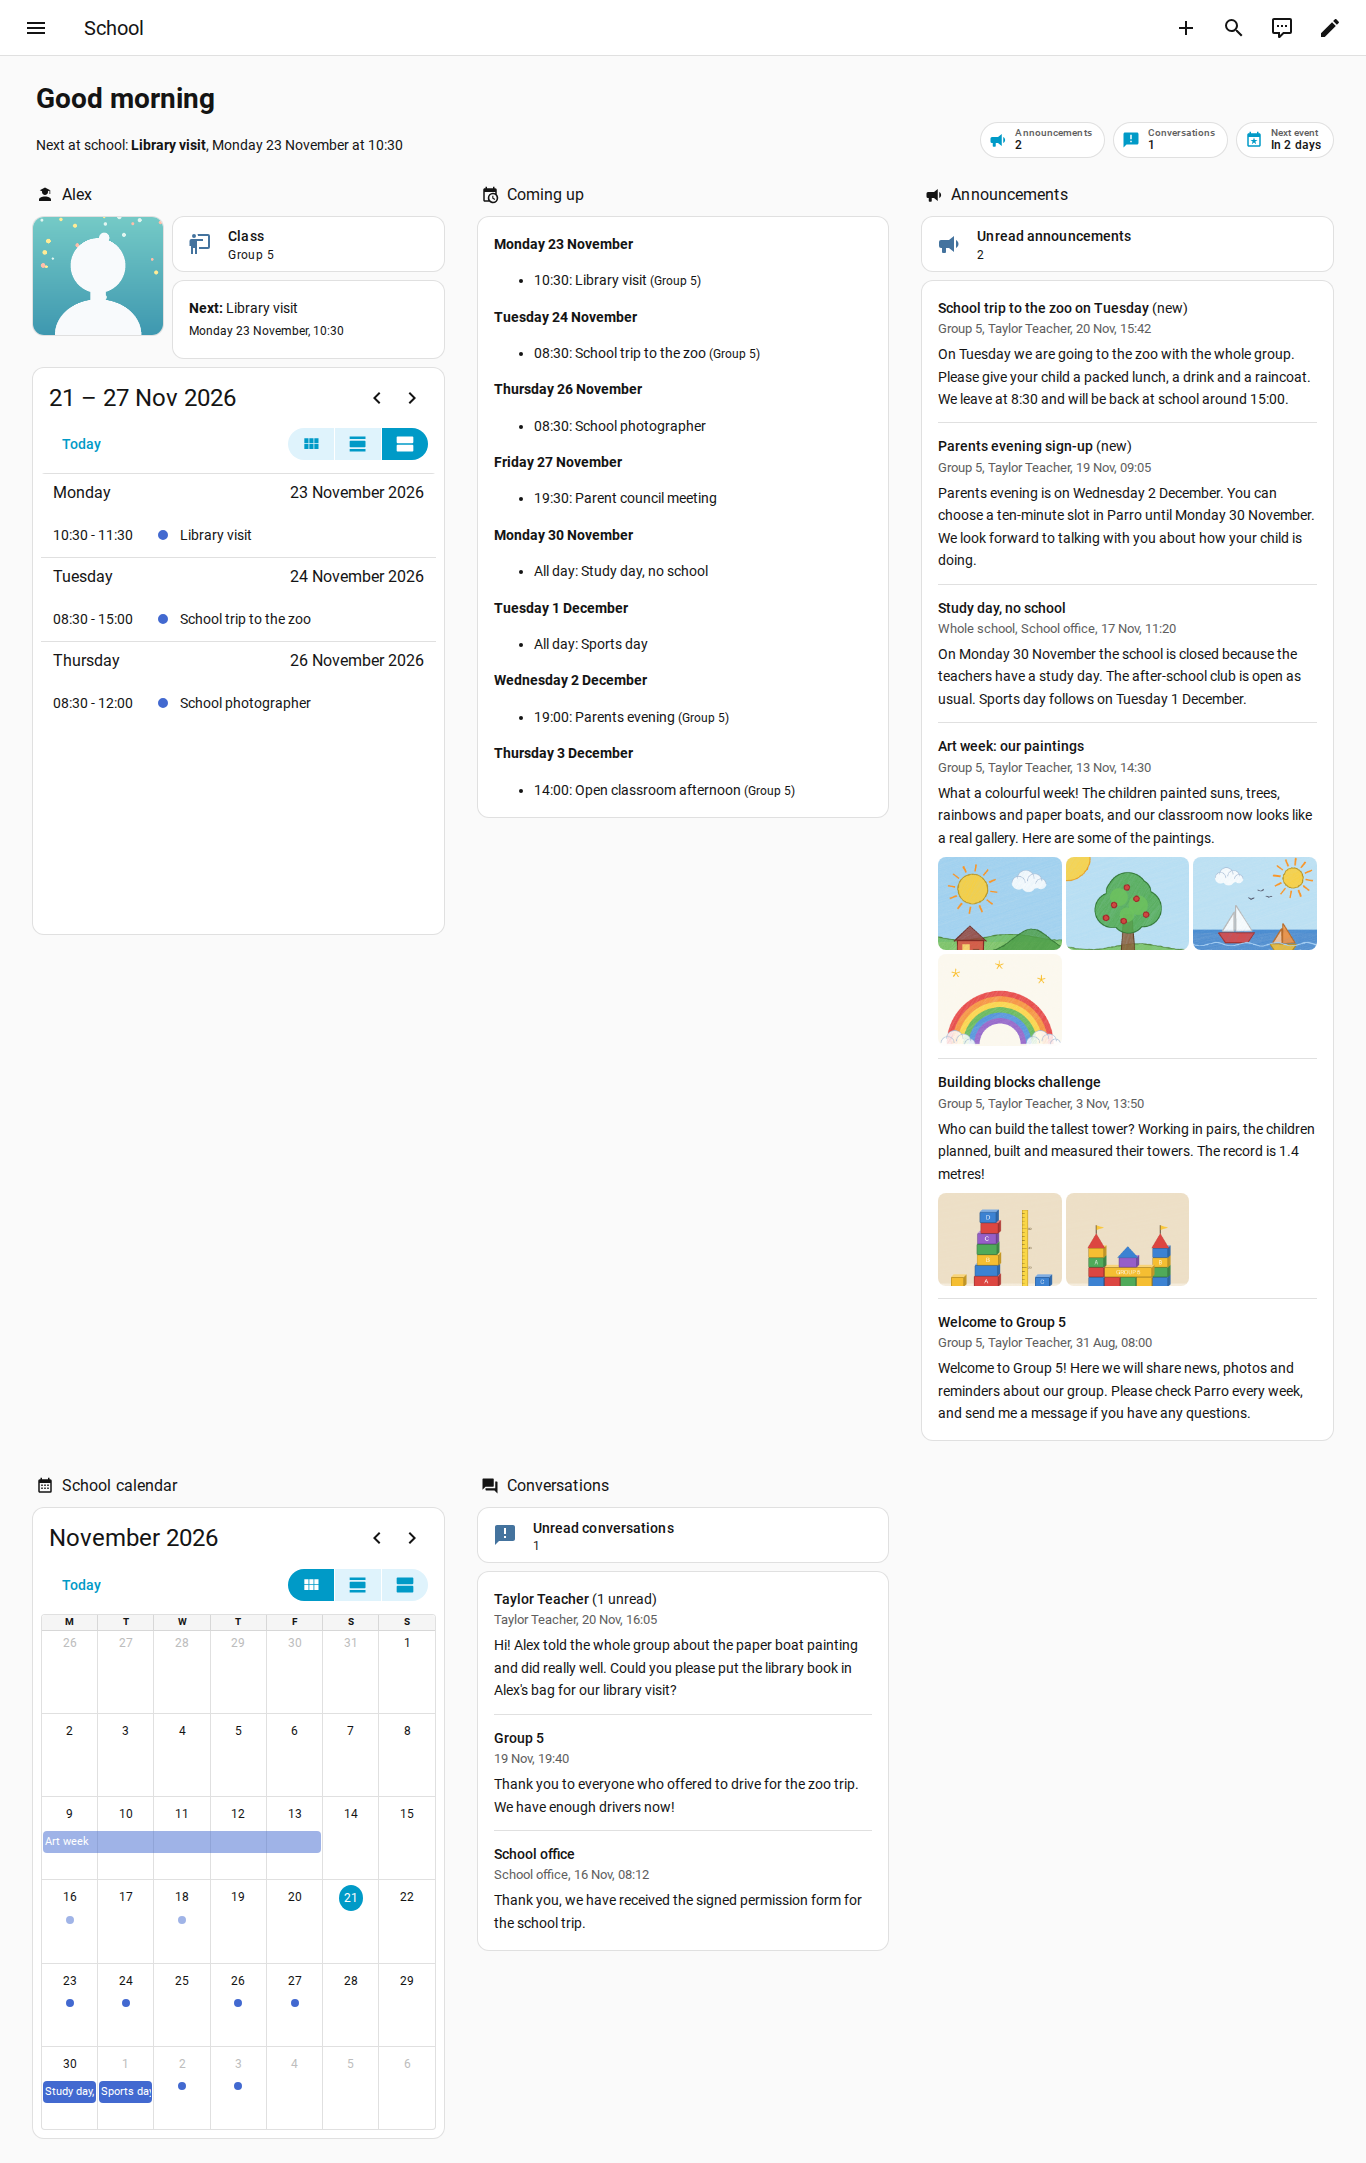
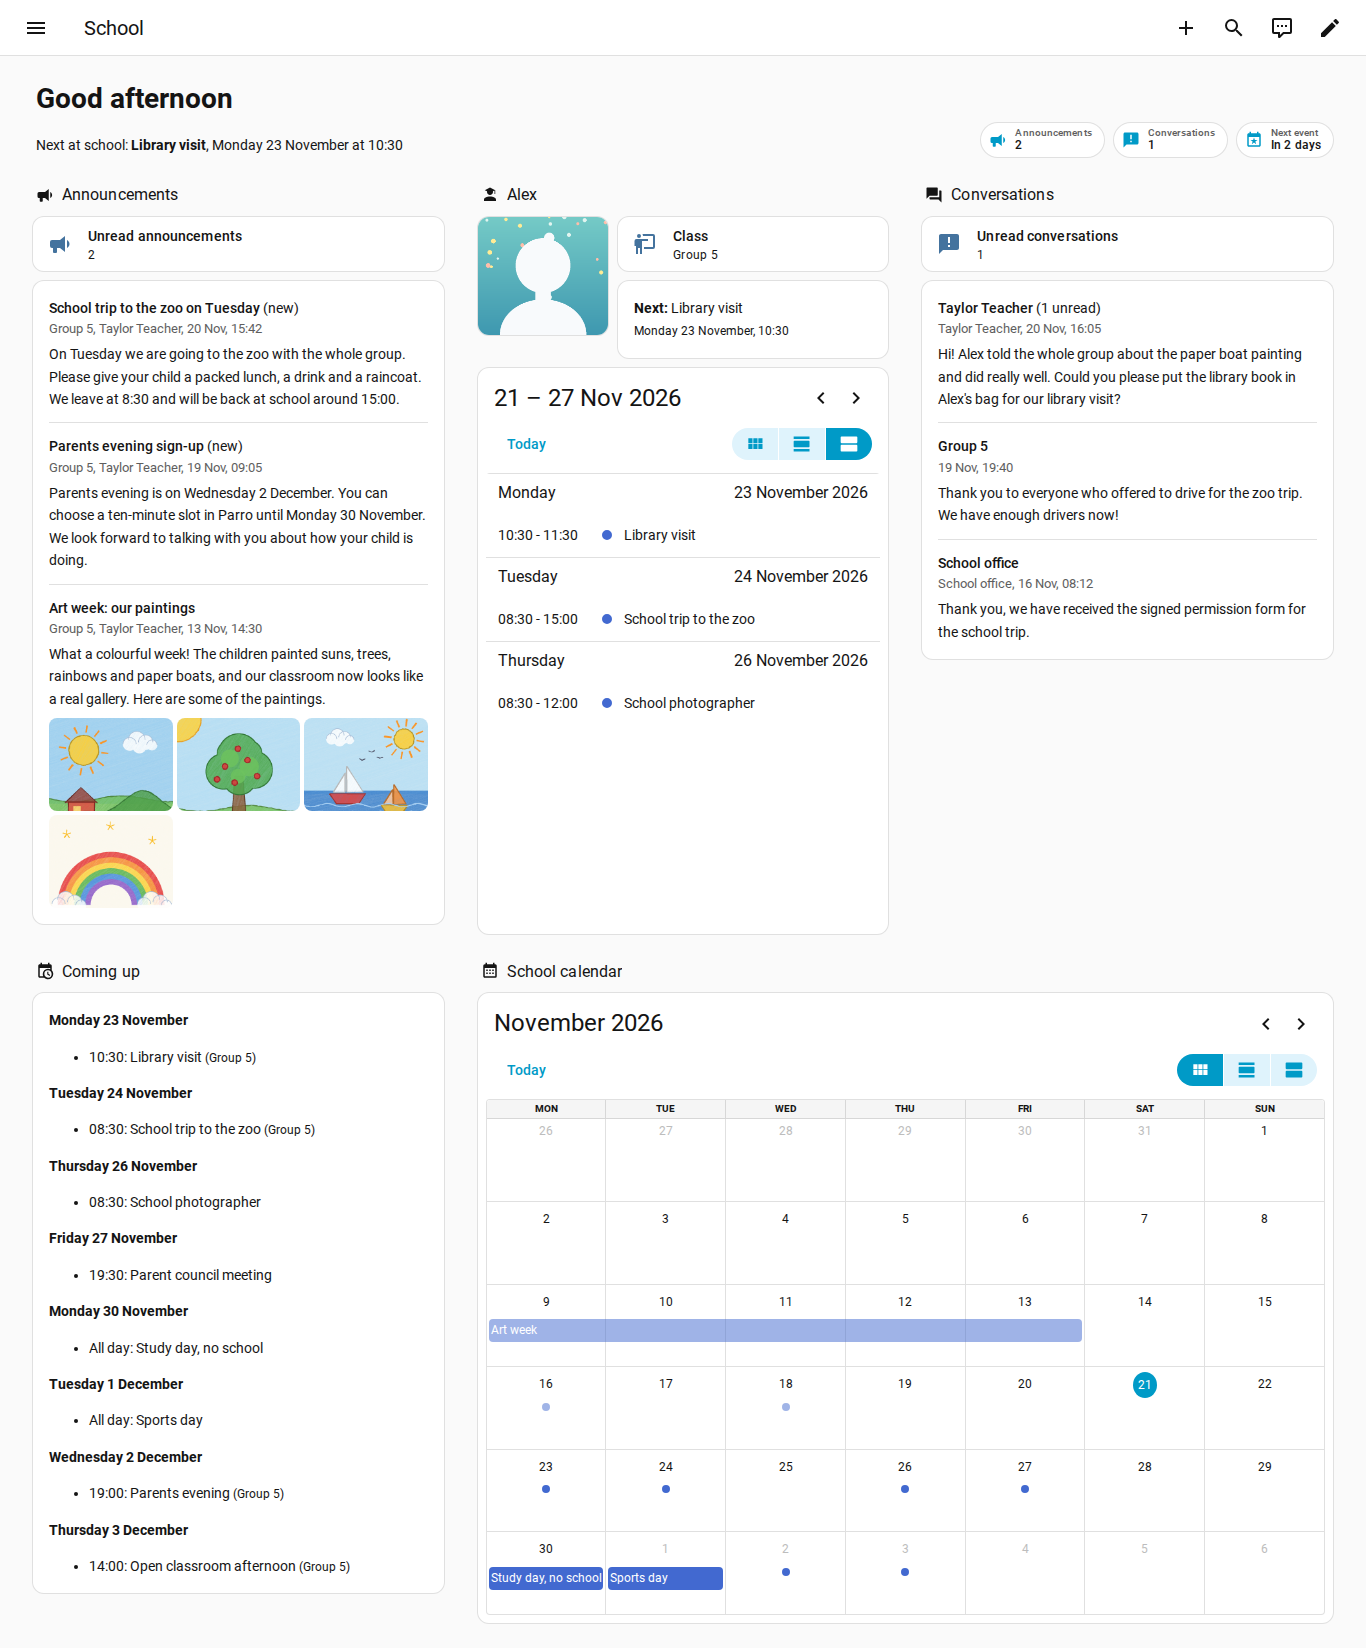
Example dashboard that looks tidy on a laptop: the 3 newest announcements first, the conversations beside them and a wide school calendar

diff --git a/README.md b/README.md
@@ -139,7 +139,7 @@ The pop-up shows what Home Assistant already has: it asks the Parro service noth
 
 ## Example dashboard
 
-Want a head start? [`examples/dashboard.yaml`](examples/dashboard.yaml) is a complete School dashboard: a greeting with the next school activity, badges for unread announcements, unread conversations and the next activity, the child's photo, class and calendar, the coming activities, the Parro card with the announcements and photos, the school calendar and the Parro card with the conversations. The screenshots show made-up data.
+Want a head start? [`examples/dashboard.yaml`](examples/dashboard.yaml) is a complete School dashboard: a greeting with the next school activity, badges for unread announcements, unread conversations and the next activity, the Parro card with the 3 newest announcements and their photos, the child's photo, class and calendar, the Parro card with the conversations, the coming activities and the school calendar. For all recent announcements, tap **Unread announcements** at the top of the card, or change `announcement_count`. The screenshots show made-up data.
 
 ![The example dashboard on a laptop](examples/dashboard-laptop.png)
 
@@ -147,7 +147,7 @@ Want a head start? [`examples/dashboard.yaml`](examples/dashboard.yaml) is a com
 
 1. In the Parro [options](#options), turn on **Children** and **Profile photos of children** for the child section, or leave that section out.
 2. Go to **Settings > Dashboards > Add dashboard > New dashboard from scratch** and open the dashboard. Select **Edit dashboard** (the pencil at the top, or in the three-dot menu on a narrow screen), then open the three-dot menu and select **Raw configuration editor**. Replace the text with the content of the file.
-3. Replace `alex` in the entity IDs with the start of your child's entity IDs, and `Alex` with your child's name. For more children, copy the child section. With Home Assistant in Dutch, use the Dutch entity IDs from [Entities](#entities). Then save.
+3. Replace `alex` in the entity IDs with the start of your child's entity IDs, and `Alex` with your child's name. For more children, copy the child section; with two children, also remove `column_span: 2` from the school calendar, so that it does not move to a row of its own. With Home Assistant in Dutch, use the Dutch entity IDs from [Entities](#entities). Then save.
 
 The Parro cards in the example show every viewer their own account. The other cards name the entities of one account, which every user who opens the dashboard sees; see [Several parents](#several-parents).
 
